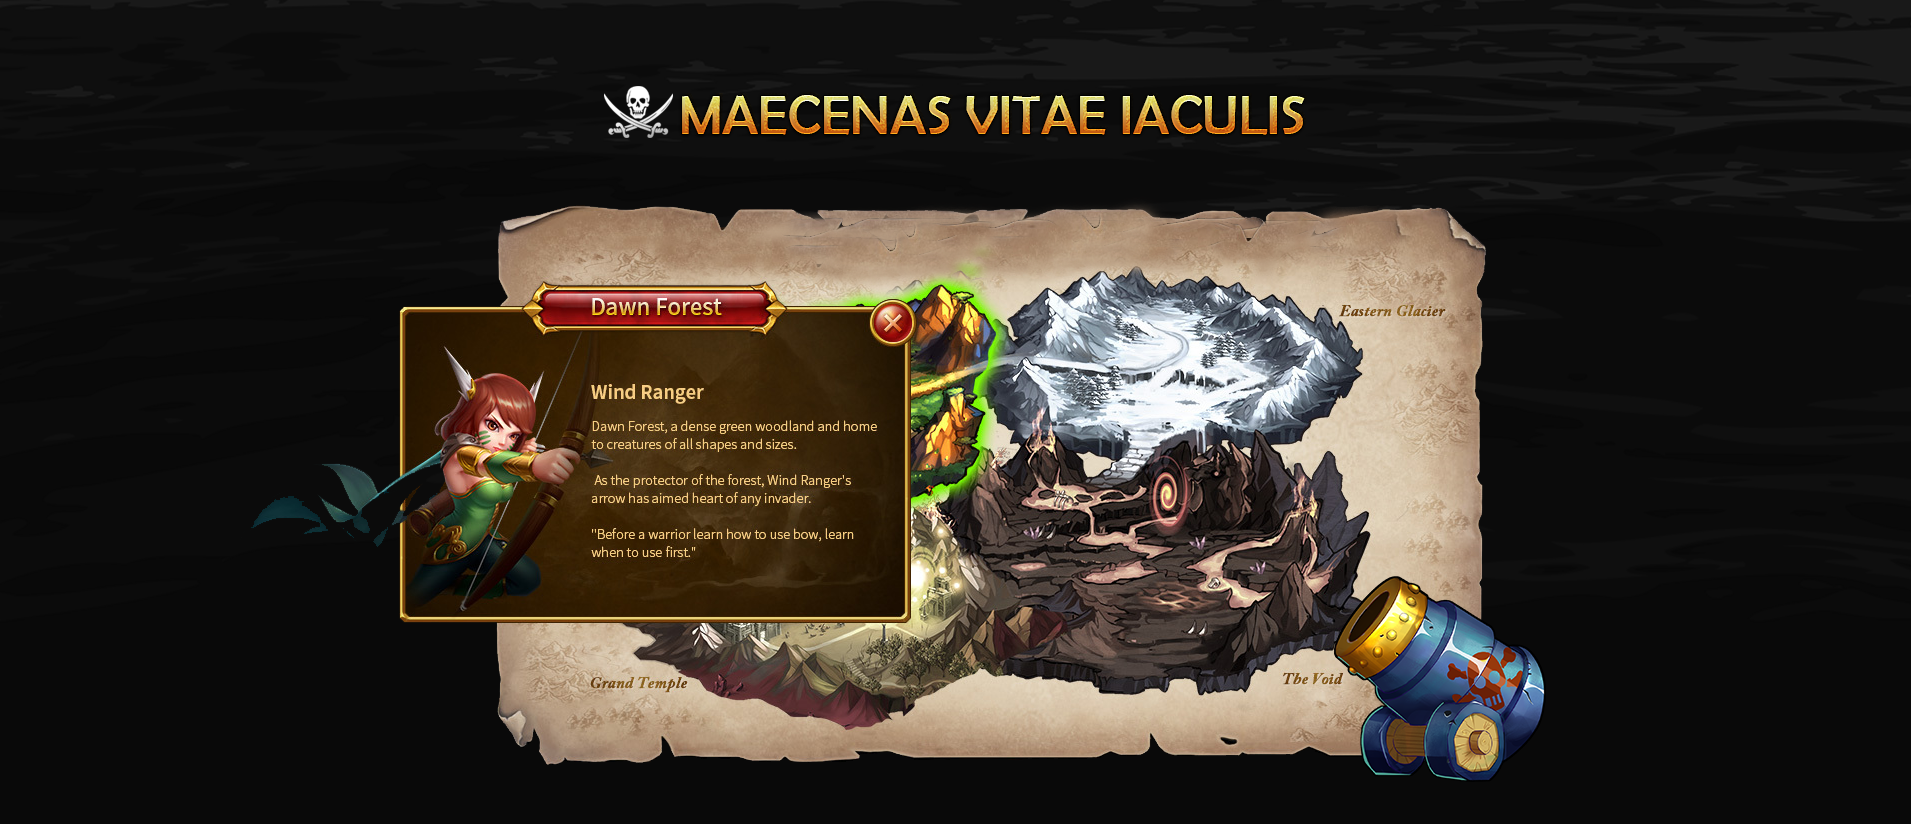
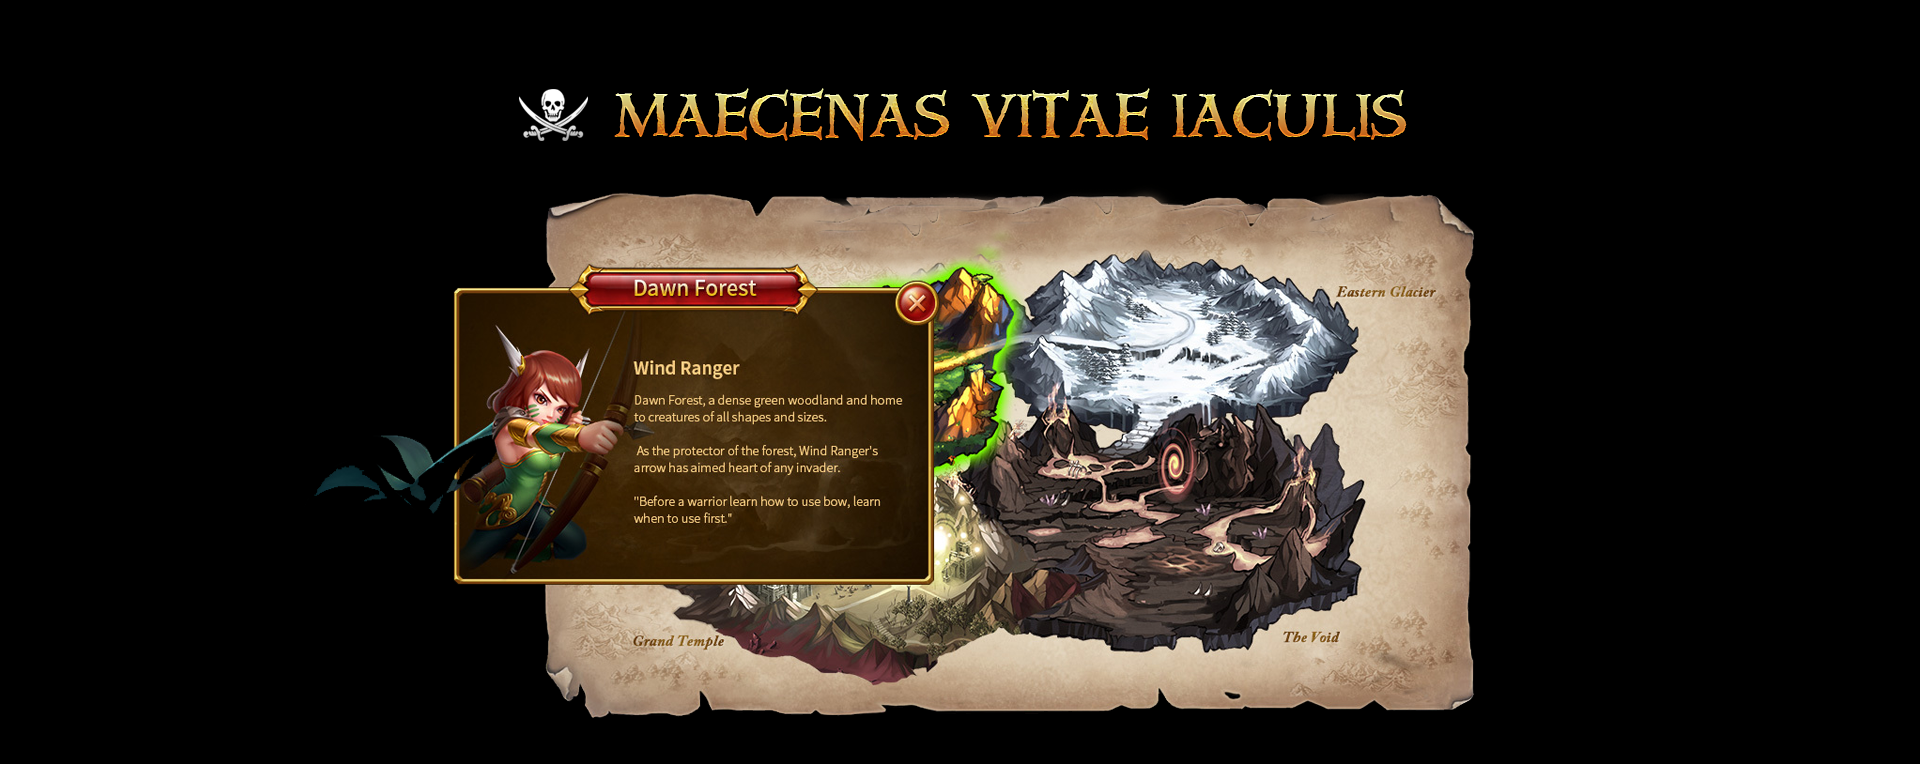
5/12第一次海盗

diff --git a/pirate-pro/src/App.vue b/pirate-pro/src/App.vue
@@ -1,5 +1,5 @@
 <template>
-  <div id="app" :style="{'height':appheight}">
+  <div id="app" :style="{'height':appheight}" v-bind:lang="lang">
     <HeaderBanner></HeaderBanner>
     <router-view/>
     <FooterBar></FooterBar>
@@ -18,15 +18,31 @@ export default {
   },
   data () {
     return {
-      appheight:""
+      lang: "en",
+      appheight: ""
+    }
+  },
+  methods: {
+    changeLanguage(lang){
+      this.$i18n.locale = lang;
+      this.lang = lang;
+      console.log("changeLanguage",lang);//undefined
+    },
+    changeAPPLocal(locale){
+      this.changeLanguage(locale);
+      this.$router.push({name: this.$route.name, params: {lang: this.lang}});
     }
   },
   mounted:function(){
       this.appheight = document.documentElement.clientHeight + "px";
+      // this.changeLanguage(this.$route.params.lang);
+      
   }
 }
 </script>
 
 <style>
-  
+  p{
+    color: #fff;
+  }
 </style>

diff --git a/pirate-pro/src/components/template/TabHome.vue b/pirate-pro/src/components/template/TabHome.vue
@@ -1,7 +1,7 @@
 <template>
   <div class="tab-home">
-    <div class="introduce" :style="{'height':introduceheight}">{{msg}}</div>
     <div class="players" :style="{'height':playersheight}">{{msg}}</div>
+    <div class="introduce" :style="{'height':introduceheight}">{{msg}}</div>
   </div>
 </template>
 
@@ -10,7 +10,7 @@ export default {
   name: 'TabHome',
   data () {
     return {
-      msg: '我是TabHome',
+      msg: this.$t("message.tabhome"),
       introduceheight: '',
       playersheight: ''
     }
@@ -20,8 +20,8 @@ export default {
   },
   mounted:function(){
     var screenwidth = document.documentElement.clientWidth;
-    this.introduceheight = screenwidth / 1910 * 824 + "px";
-    this.playersheight = screenwidth / 1910 * 821 + "px";
+    this.introduceheight = screenwidth / 1910 * 760 + "px";
+    this.playersheight = screenwidth / 1910 * 880 + "px";
   }
 }
 </script>

diff --git a/pirate-pro/src/main.js b/pirate-pro/src/main.js
@@ -4,15 +4,32 @@ import Vue from 'vue'
 import App from './App'
 import router from './router'
 import store from './store/store.js'
+import VueI18n from 'vue-i18n'
 import initCss from './components/css/init.css'
+import LangEn from './i18n/lang/en'
+import LangZhCH from './i18n/lang/zhCH'
+import LangZhHK from './i18n/lang/zhHK'
+
 
 Vue.config.productionTip = false
+Vue.use(VueI18n)
+
+const i18n = new VueI18n({
+  locale: 'zh-ch',
+  messages: {  
+    'en': LangEn,
+    'zh-ch': LangZhCH,
+    'zh-hk': LangZhHK
+  }
+})
 
 /* eslint-disable no-new */
 new Vue({
   el: '#app',
   router,
   store,
+  i18n,
   components: { App },
   template: '<App/>'
 })
+

diff --git a/pirate-pro/src/components/template/HeaderBanner.vue b/pirate-pro/src/components/template/HeaderBanner.vue
@@ -27,7 +27,8 @@ export default {
       msg: 'HeaderBanner',
       topheight: '',
       topbannerheight: '',
-      topnavheight: ''
+      topnavheight: '',
+      
     }
   },
   mounted:function(){
@@ -38,6 +39,7 @@ export default {
     this.topbannerheight = parseInt(screenwidth) / 1910 * 810 + "px";
     this.topnavheight = parseInt(screenwidth) / 1910 * (890 - 810) + "px";
     console.log("topbannerheight",screenwidth);
+    
   }
 }
 </script>
@@ -46,6 +48,7 @@ export default {
 <style scoped>
   .header-banner{
     width: 100%;
+    color: #fff;
   }
   .topbanner{
     width: 100%;

diff --git a/pirate-pro/src/components/css/init.css b/pirate-pro/src/components/css/init.css
@@ -156,7 +156,6 @@ template {
   -webkit-font-smoothing: antialiased;
   -moz-osx-font-smoothing: grayscale;
   background:#000; /*不支持背景色渐变的情况*/
-  background:linear-gradient(top, #000, rgba(0, 0, 0, 0.95));
   background:-o-linear-gradient(top, #000, rgba(0, 0, 0, 0.95)); /*opera*/
   background:-ms-linear-gradient(top, #000, rgba(0, 0, 0, 0.95)); /*ie*/ 
   background:-moz-linear-gradient(top, #000, rgba(0, 0, 0, 0.95));  /*firefox*/ 

diff --git a/pirate-pro/src/i18n/index.js b/pirate-pro/src/i18n/index.js
@@ -1,0 +1,21 @@
+import Vue from 'vue'
+import VueI18n from 'vue-i18n'
+import LangEn from './lang/en'
+import LangZhCH from './lang/zhCH'
+import LangZhHK from './lang/zhHK'
+
+Vue.use(VueI18n)
+
+const messages = {
+  en: {
+    message: LangEn
+  },
+  zh-ch: {
+    message: LangZhCH
+  },
+  zh-hk: {
+  	message: LangZhHK
+  }
+}
+
+export default messages

diff --git a/pirate-pro/build/utils.js b/pirate-pro/build/utils.js
@@ -48,7 +48,6 @@ exports.cssLoaders = function (options) {
       return ExtractTextPlugin.extract({
         use: loaders,
         fallback: 'vue-style-loader'
-        publickPath: '../../'
       })
     } else {
       return ['vue-style-loader'].concat(loaders)

diff --git a/pirate-pro/config/index.js b/pirate-pro/config/index.js
@@ -9,7 +9,7 @@ module.exports = {
 
     // Paths
     assetsSubDirectory: 'static',
-    assetsPublicPath: './',
+    assetsPublicPath: '/',
     proxyTable: {},
 
     // Various Dev Server settings

diff --git a/pirate-pro/src/i18n/lang/zhCH.js b/pirate-pro/src/i18n/lang/zhCH.js
@@ -1,0 +1,5 @@
+module.exports = {
+	message: {
+		tabhome: "我是tab栏的主页"
+	}
+}

diff --git a/pirate-pro/src/i18n/lang/zhHK.js b/pirate-pro/src/i18n/lang/zhHK.js
@@ -1,0 +1,5 @@
+module.exports = {
+	message: {
+		tabhome: "我是tab欄的主頁"
+	}
+}

diff --git a/pirate-pro/src/i18n/lang/en.js b/pirate-pro/src/i18n/lang/en.js
@@ -1,0 +1,5 @@
+module.exports = {
+	message: {
+		tabhome: "I am tabhome"
+	}
+}
